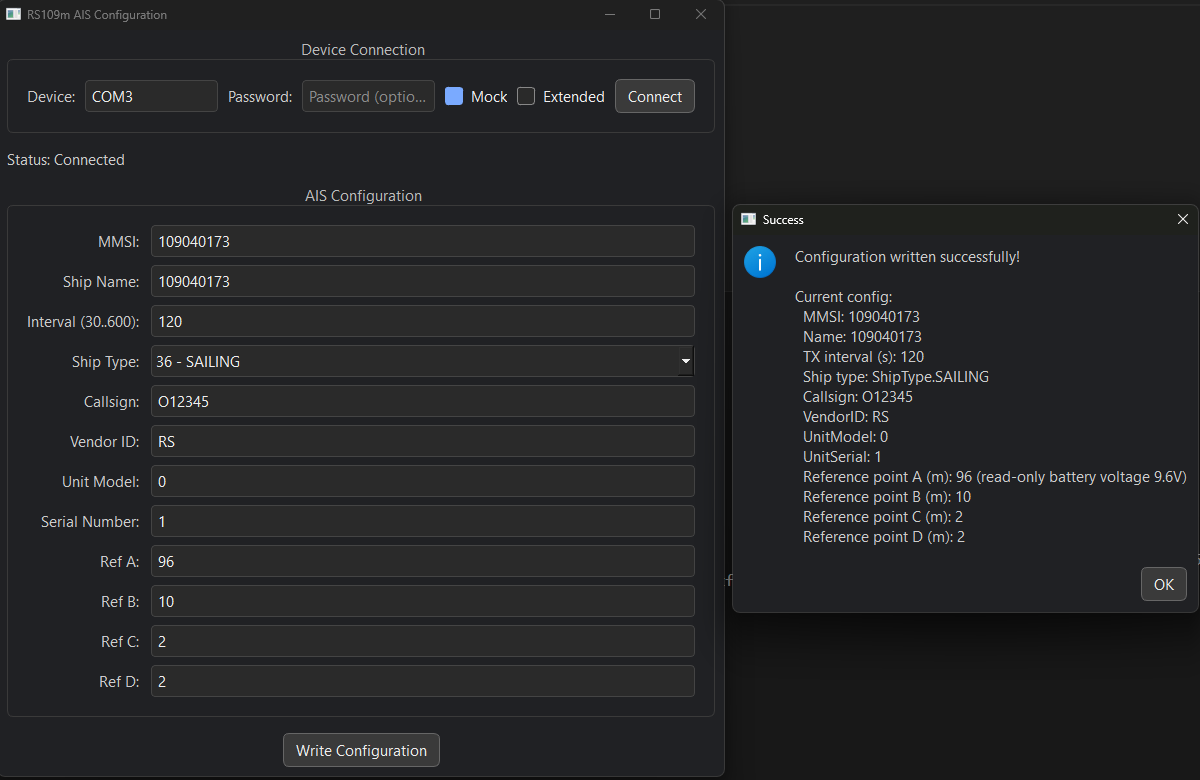
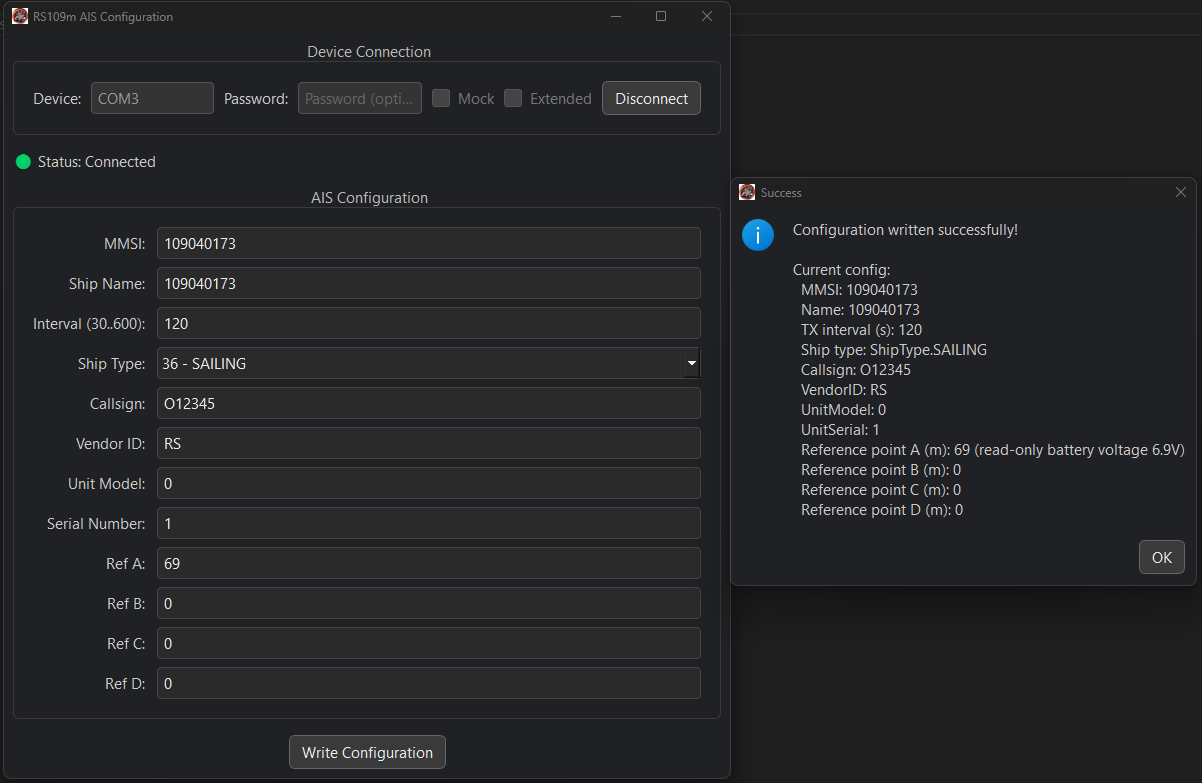
improve gui robustness

diff --git a/src/rs109m/application/gui/main.py b/src/rs109m/application/gui/main.py
@@ -4,6 +4,7 @@ from enum import Enum, auto
 from typing import Optional
 
 from PyQt6.QtCore import QThread, pyqtSignal, Qt
+from PyQt6.QtGui import QIcon
 from PyQt6.QtWidgets import (
     QApplication, QMainWindow, QWidget, QVBoxLayout, QHBoxLayout,
     QLabel, QLineEdit, QPushButton, QFormLayout, QCheckBox, QComboBox,
@@ -93,11 +94,17 @@ class MainWindow(QMainWindow):
       - Disables device fields when connected or connecting
       - Disables config fields & write button until connected
       - Catches Pydantic ValidationError for config writes
+      - Shows a custom window icon from assets/icon.ico
+      - Visibly grays out disabled fields
     """
 
     def __init__(self) -> None:
         super().__init__()
+
+        # Set window properties
         self.setWindowTitle("RS109m AIS Configuration")
+        # Load your icon from relative path
+        self.setWindowIcon(QIcon("assets/icon.ico"))
 
         # The stateless service
         self.config_service = RS109mConfigurationService()
@@ -111,7 +118,7 @@ class MainWindow(QMainWindow):
         # Current device state
         self.device_state = DeviceState.DISCONNECTED
 
-        # Build the UI (including a single button for connect/disconnect/cancel)
+        # Build the UI
         self._init_ui()
 
         # Start in DISCONNECTED state
@@ -136,7 +143,7 @@ class MainWindow(QMainWindow):
 
     def _init_ui(self) -> None:
         """
-        Create all widgets and apply a sleek dark theme with modern styling.
+        Create all widgets.
         """
         central_widget = QWidget()
         self.setCentralWidget(central_widget)
@@ -226,12 +233,13 @@ class MainWindow(QMainWindow):
         write_button_layout.addStretch(1)
         main_layout.addLayout(write_button_layout)
 
-        # Apply modern dark theme
+        # Apply modern dark theme (including a disabled style)
         self._apply_modern_dark_theme()
 
     def _apply_modern_dark_theme(self) -> None:
         """
-        A sleek modern stylesheet for a 2020+ look.
+        A sleek modern stylesheet with :disabled states for
+        a visually obvious disabled color scheme.
         """
         self.setStyleSheet("""
             QWidget {
@@ -258,6 +266,7 @@ class MainWindow(QMainWindow):
                 font-weight: 500;
                 color: #cccccc;
             }
+            /* Normal fields */
             QLineEdit, QComboBox {
                 border: 1px solid #444;
                 border-radius: 4px;
@@ -266,6 +275,12 @@ class MainWindow(QMainWindow):
             }
             QLineEdit:focus, QComboBox:focus {
                 border: 1px solid #7aaaff;
+            }
+            /* Disabled fields (grayed out) */
+            QLineEdit:disabled, QComboBox:disabled {
+                color: #999999;
+                background-color: #343434;
+                border: 1px solid #555;
             }
             QPushButton {
                 background-color: #3a3a3a;
@@ -279,6 +294,11 @@ class MainWindow(QMainWindow):
             }
             QPushButton:pressed {
                 background-color: #222222;
+            }
+            QPushButton:disabled {
+                color: #7f7f7f;
+                background-color: #2f2f2f;
+                border: 1px solid #444;
             }
             QCheckBox {
                 spacing: 8px;
@@ -294,6 +314,13 @@ class MainWindow(QMainWindow):
                 background-color: #7aaaff;
                 border: 1px solid #7aaaff;
             }
+            QCheckBox:disabled {
+                color: #777777;
+            }
+            QCheckBox::indicator:disabled {
+                background-color: #444;
+                border: 1px solid #555;
+            }
         """)
 
     def _set_device_state(self, new_state: DeviceState) -> None:
@@ -307,7 +334,7 @@ class MainWindow(QMainWindow):
         self.device_state = new_state
 
         if new_state == DeviceState.DISCONNECTED:
-            self.status_label.setText("Status: Disconnected")
+            self.status_label.setText("🔴 Status: Disconnected")
             # enable device/password fields
             self.device_edit.setEnabled(True)
             self.password_edit.setEnabled(True)
@@ -321,7 +348,7 @@ class MainWindow(QMainWindow):
             self.set_config_fields_enabled(False)
 
         elif new_state == DeviceState.CONNECTING:
-            self.status_label.setText("Status: Connecting...")
+            self.status_label.setText("🟡 Status: Connecting...")
             # disable device/password fields
             self.device_edit.setEnabled(False)
             self.password_edit.setEnabled(False)
@@ -335,7 +362,7 @@ class MainWindow(QMainWindow):
             self.set_config_fields_enabled(False)
 
         elif new_state == DeviceState.CONNECTED:
-            self.status_label.setText("Status: Connected")
+            self.status_label.setText("🟢 Status: Connected")
             # disable device/password fields (can't change port while connected)
             self.device_edit.setEnabled(False)
             self.password_edit.setEnabled(False)
@@ -349,7 +376,7 @@ class MainWindow(QMainWindow):
             self.set_config_fields_enabled(True)
 
         elif new_state == DeviceState.DISCONNECTING:
-            self.status_label.setText("Status: Disconnecting...")
+            self.status_label.setText("🟡 Status: Disconnecting...")
             # disable everything
             self.device_edit.setEnabled(False)
             self.password_edit.setEnabled(False)
@@ -431,7 +458,6 @@ class MainWindow(QMainWindow):
         Called by background thread when a config read is successful.
         If we were in CONNECTING state, we move to CONNECTED.
         """
-        # Might have canceled in the meantime, so check state
         if self.device_state == DeviceState.CONNECTING:
             self._set_device_state(DeviceState.CONNECTED)
             self.current_config = config
